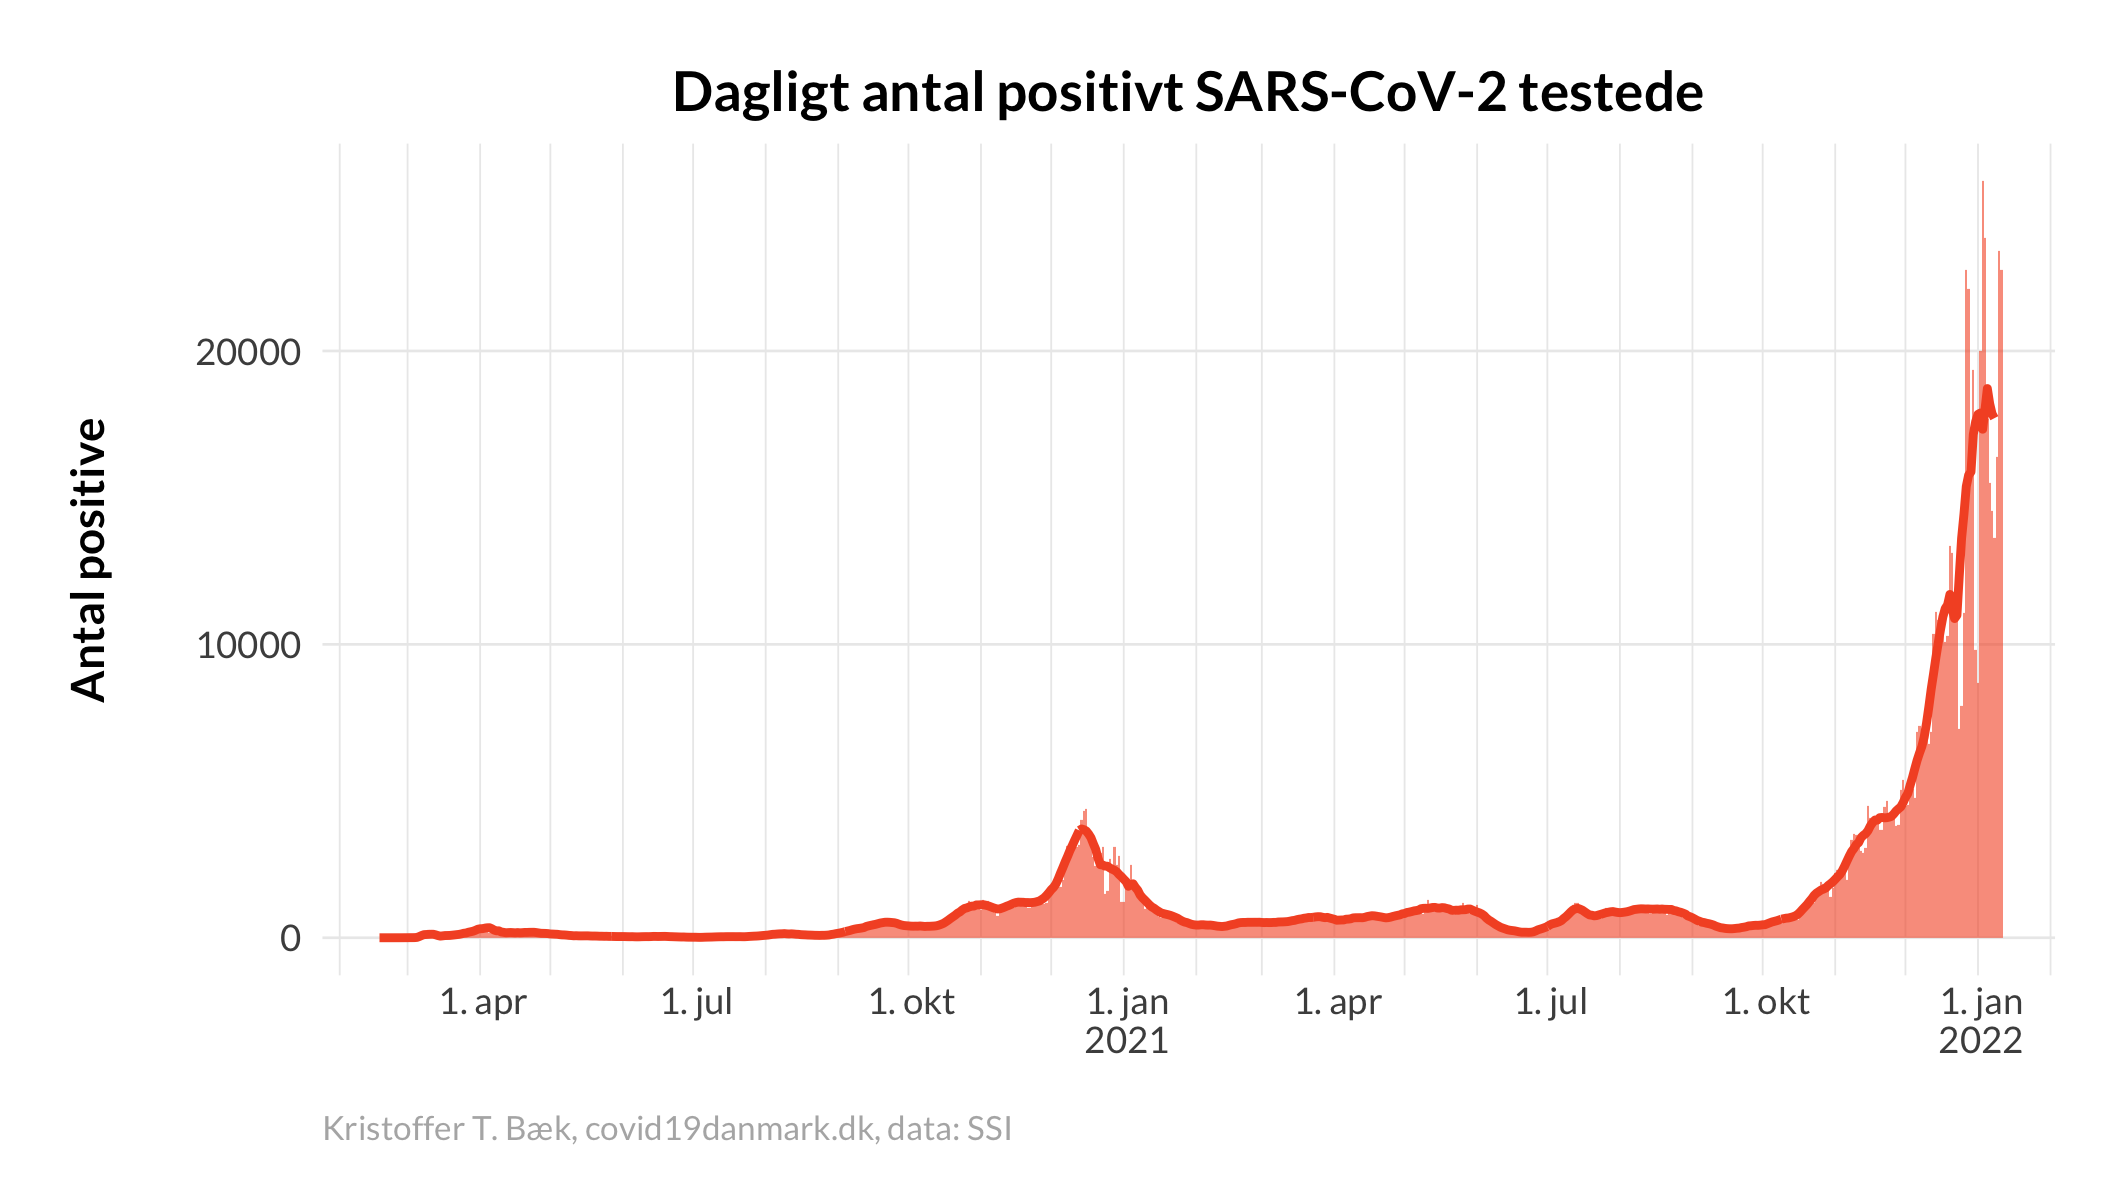
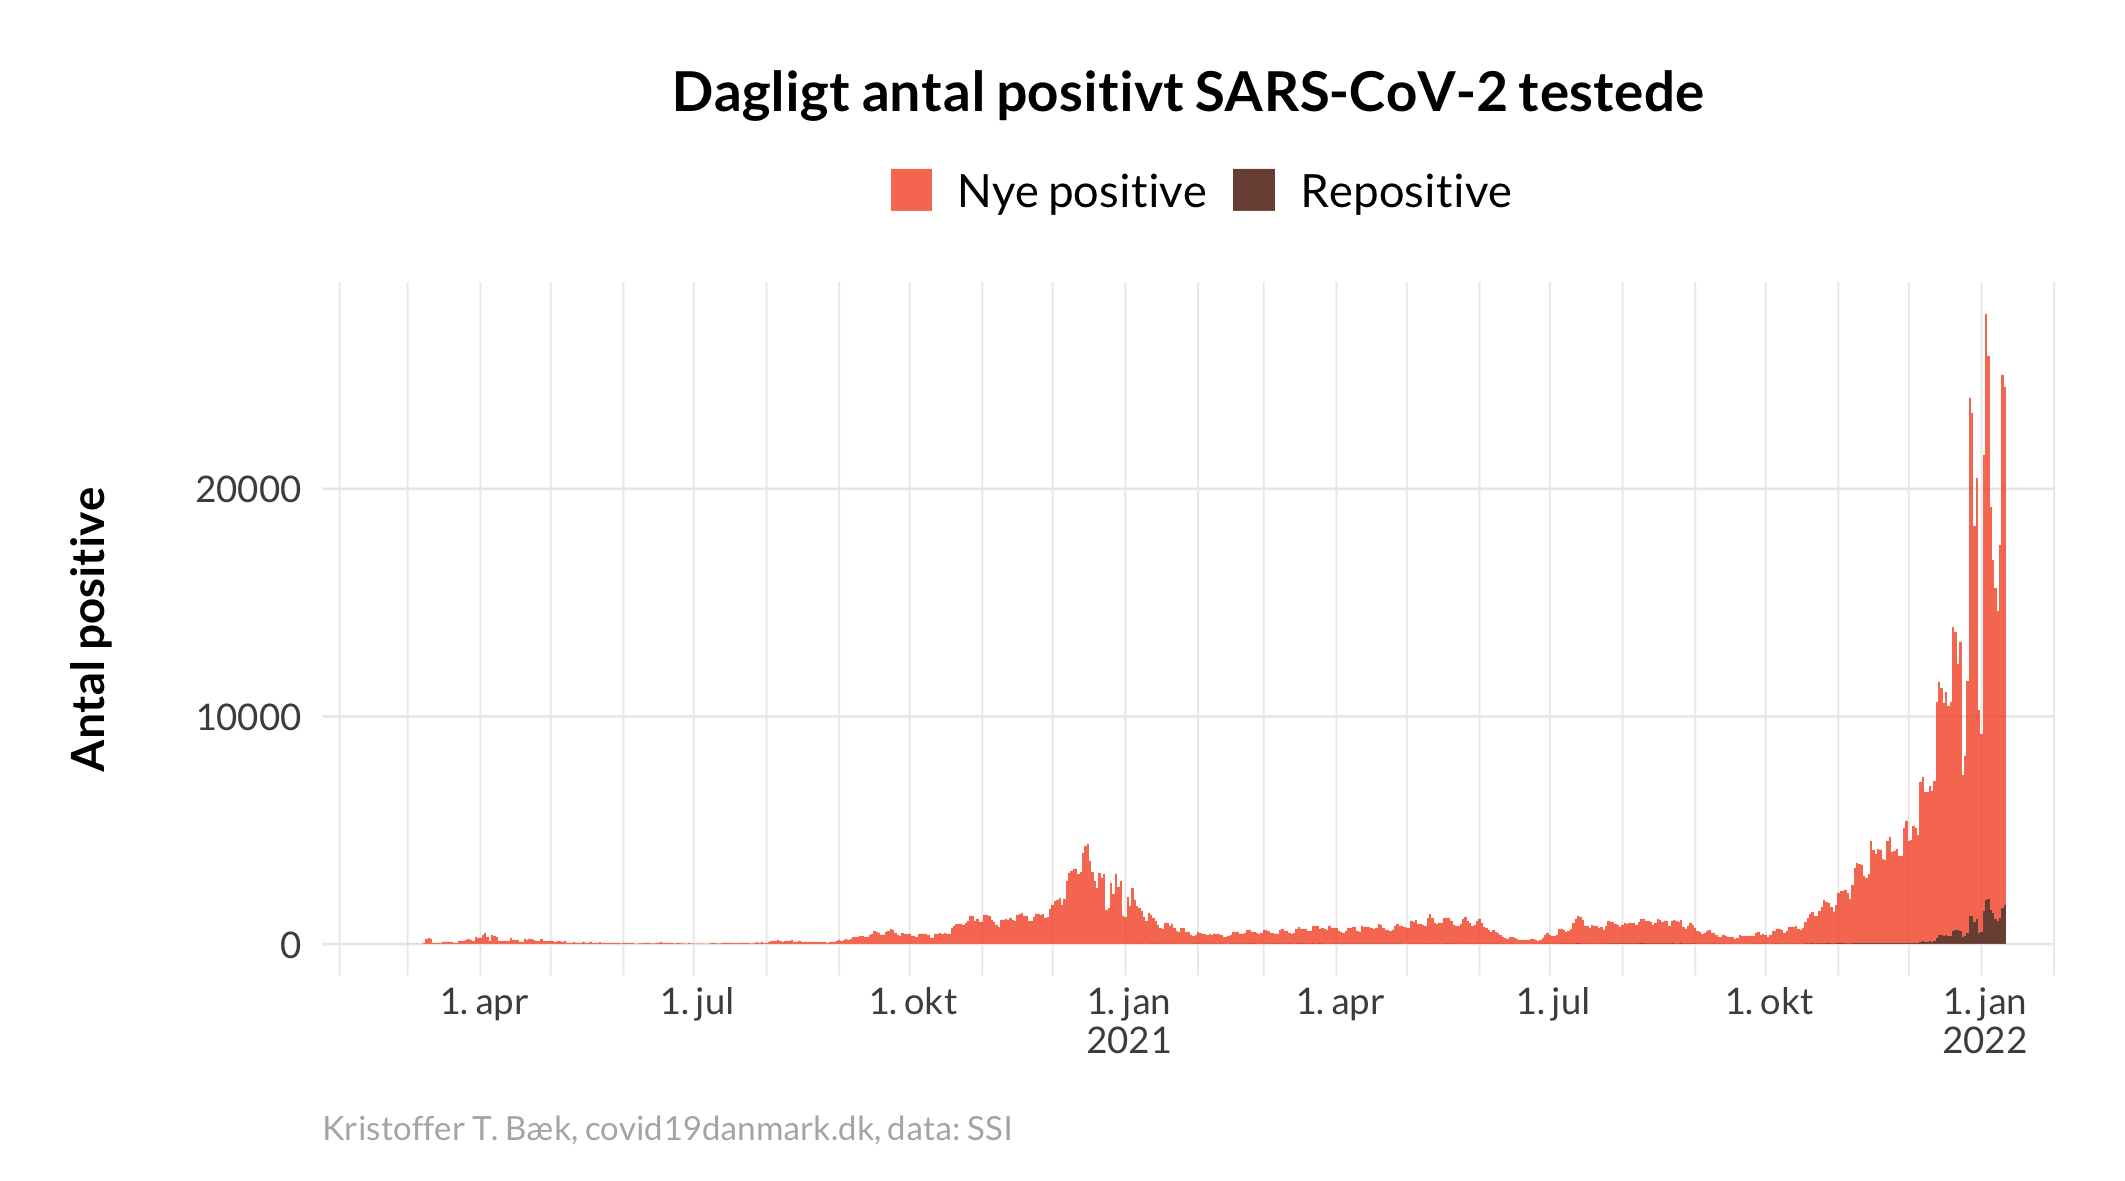
Update plots

diff --git a/index.md b/index.md
@@ -23,7 +23,7 @@ Opdateres et par gange om ugen.
 
 Data er hentet på [SSI's COVID-19 overvågningsside](https://covid19.ssi.dk) og hos [Danmarks Statistik](https://statbank.dk).
 
-Medmindre andet er angivet, viser graferne kun resultater for PCR tests.
+Medmindre andet er angivet, viser graferne kun resultater for PCR tests, og antal positive inkluderer ikke repositive (altså positive der tidligere har testet positiv).
 
 Der går typisk 2-3 dage før testdata er helt opdateret. På de grafer der viser daglige testdata er de seneste to dage derfor ikke medtaget. På grafer over nyindlagte og døde er den seneste dag ikke medtaget.
 
@@ -56,10 +56,10 @@ Den optrukne linje viser det løbende gennemsnit baseret på et vindue på 7 dag
 
 -->
 
-### Dagligt antal nye positivt testede personer
-Plottet viser antallet af nye positivt testede personer for hele landet. Den optrukne linje viser det løbende gennemsnit baseret på et vindue på 7 dage.
+### Dagligt antal positivt testede personer
+Plottet viser antallet af positivt testede personer for hele landet opdelt på nye positive og repositive. Repositive er defineret som positive som tidligere har modtaget en positiv test, og hvis tidligere positive test er mere end 60 dage gammel.  
 
-``SSI datasæt: 'Test_pos_over_time'``
+``SSI datasæt: 'Test_pos_over_time', '24_reinfektioner_daglig_region'``
 
 ![](/figures/ntl_pos.png)
 
